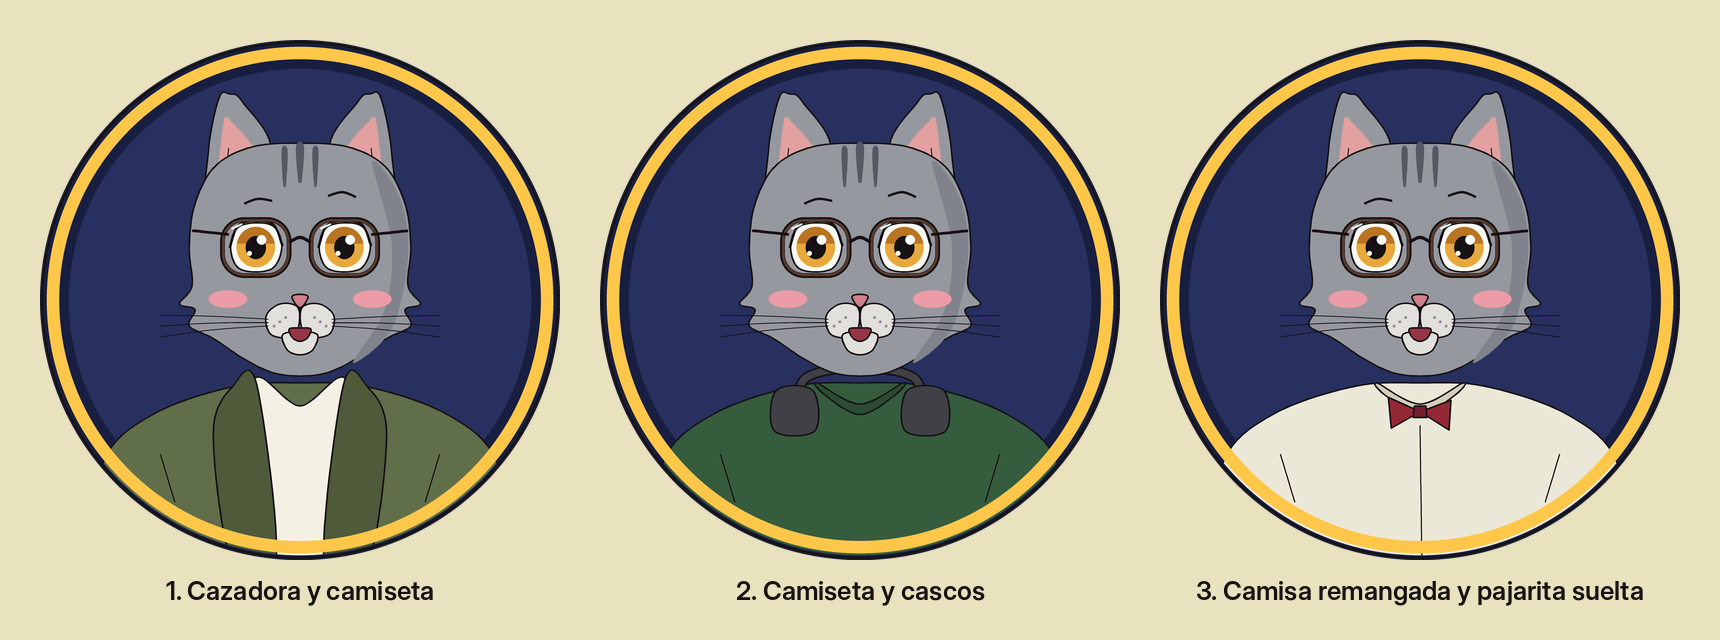
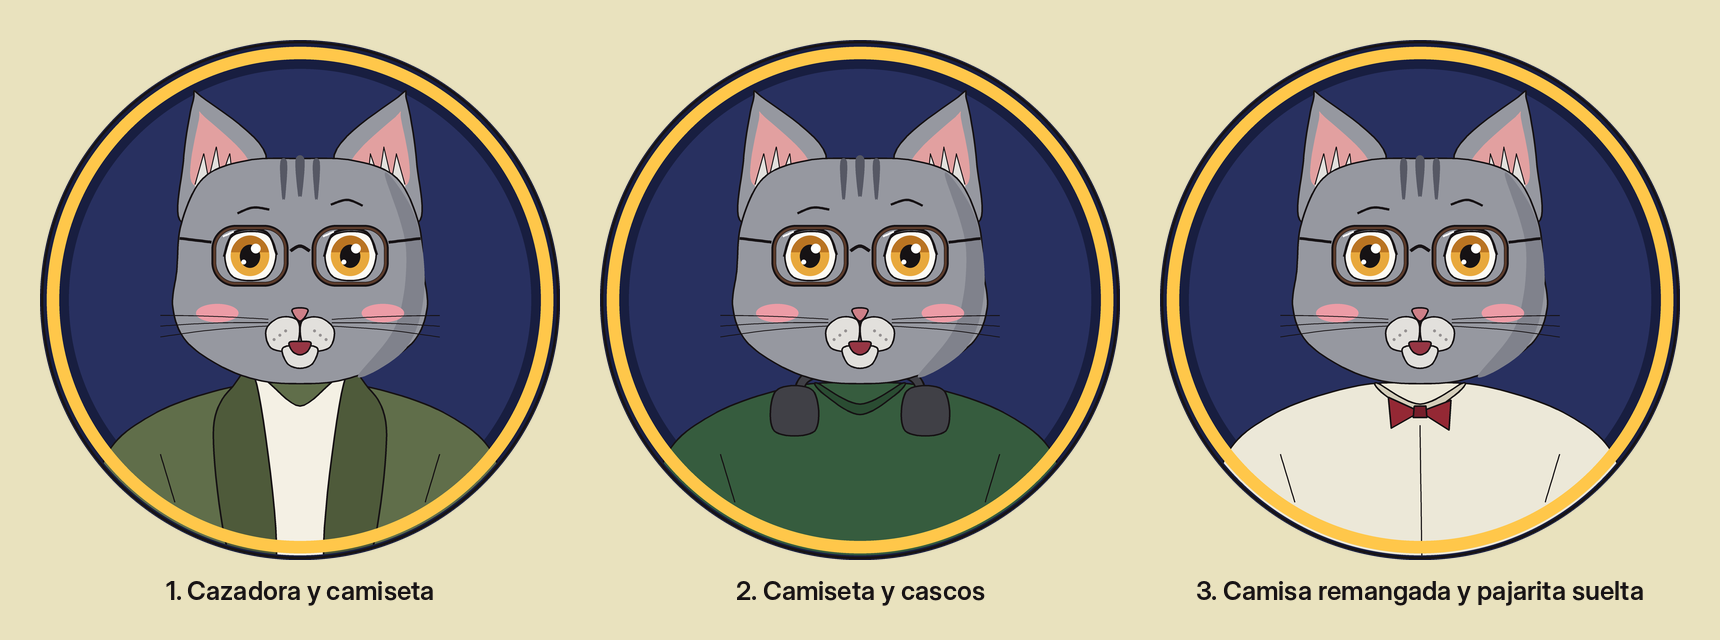
Mascot v5: wide head, ears rising from the sides, broad U jaw (author's reference)
Claude-Session: https://claude.ai/code/session_01NybaBE5S7NaSa8o2zm46KB

Changed region(s): [[0.7395, 0.125, 0.9244, 0.625], [0.4006, 0.125, 0.5855, 0.625], [0.0924, 0.125, 0.2465, 0.625]]

diff --git a/factory/mascota_v5.py b/factory/mascota_v5.py
@@ -81,44 +81,46 @@ def body(d, o):
 
 def head(d, wink=False):
     X = lambda x, sx: 540 + sx * (x - 540)
-    # orejas grandes de base ancha en las esquinas superiores, con mechones dentro
+    # orejas grandes en las esquinas: el borde exterior sube casi recto desde el lado de la cabeza
     for sx in (-1, 1):
-        shape(d, [(X(352, sx), 360), (X(350, sx), 230), (X(372, sx), 120), (X(394, sx), 112), (X(420, sx), 128), (X(478, sx), 236)], FUR)
-        shape(d, [(X(374, sx), 330), (X(380, sx), 180), (X(396, sx), 168), (X(452, sx), 252)], EAR_IN, line=False)
-        for k in range(3):
-            stroke(d, [(X(384 + k * 14, sx), 300), (X(392 + k * 14, sx), 224 + k * 8)], 2.2)
-    # cabeza: redonda arriba, ancha en los mofletes (mechones abajo a los lados), barbilla pequeña bajo el hocico
-    pts = spline([(540, 214), (640, 222), (716, 262), (758, 340), (770, 430), (764, 510), (790, 548), (758, 560),
-                  (770, 594), (720, 620), (660, 660), (600, 690), (540, 698), (480, 690), (420, 660), (360, 620),
-                  (310, 594), (322, 560), (290, 548), (316, 510), (310, 430), (322, 340), (364, 262), (440, 222)], n=10)
+        shape(d, [(X(300, sx), 380), (X(298, sx), 250), (X(318, sx), 126), (X(336, sx), 118), (X(470, sx), 250)], FUR)
+        shape(d, [(X(318, sx), 300), (X(330, sx), 166), (X(342, sx), 160), (X(436, sx), 262)], EAR_IN, line=False)
+        tuft = [(X(322, sx), 300), (X(340, sx), 236), (X(350, sx), 290), (X(366, sx), 222), (X(376, sx), 288), (X(394, sx), 236), (X(400, sx), 290)]
+        d.polygon([P(*p) for p in tuft] + [P(X(400, sx), 310), P(X(322, sx), 310)], fill=FUR_L)
+        stroke(d, tuft, 2, smooth=False)
+    # cabeza ancha (más ancha que alta): parte de arriba casi plana entre las orejas, lados casi rectos que se abren
+    # un poco en los mofletes, mandíbula en U ancha
+    pts = spline([(540, 246), (650, 250), (740, 286), (786, 380), (796, 480), (804, 556), (776, 626), (700, 680),
+                  (620, 708), (540, 714), (460, 708), (380, 680), (304, 626), (276, 556), (284, 480), (294, 380),
+                  (340, 286), (430, 250)], n=10)
     d.polygon([P(*p) for p in pts], fill=FUR)
     d.line([P(*p) for p in pts] + [P(*pts[0])], fill=INK, width=int(LW * S), joint="curve")
-    d.polygon([P(*p) for p in spline([(690, 252), (748, 330), (764, 450), (730, 600), (650, 670), (716, 560), (730, 420)])], fill=FUR_S)
+    d.polygon([P(*p) for p in spline([(716, 276), (780, 370), (798, 520), (760, 640), (660, 700), (740, 590), (760, 430)])], fill=FUR_S)
     # rayas de la frente
-    for x0, top, w in ((508, 228, 12), (540, 220, 16), (572, 228, 12)):
+    for x0, top, w in ((506, 254, 14), (540, 248, 18), (574, 254, 14)):
         d.polygon([P(*p) for p in spline([(x0 - w / 2, top), (x0 + w / 2, top), (x0 + w / 4, top + 70), (x0, top + 76), (x0 - w / 4, top + 70)])], fill=STRIPE)
     # mofletes rosados
     for sx in (-1, 1):
-        d.ellipse([P(540 + sx * 150 - 40, 520), P(540 + sx * 150 + 40, 556)], fill=(236, 156, 166))
+        d.ellipse([P(540 + sx * 172 - 44, 548), P(540 + sx * 172 + 44, 586)], fill=(236, 156, 166))
     # hocico: dos almohadillas redondas de bigotes (como la referencia) + barbilla
     for sx in (-1, 1):
-        shape(d, [(540 + sx * 4, 556), (540 + sx * 40, 548), (540 + sx * 70, 572), (540 + sx * 62, 610), (540 + sx * 24, 618), (540 + sx * 4, 600)], FUR_L)
-    shape(d, [(504, 612), (540, 606), (576, 612), (566, 644), (540, 654), (514, 644)], FUR_L)
+        shape(d, [(540 + sx * 4, 584), (540 + sx * 40, 576), (540 + sx * 70, 600), (540 + sx * 62, 638), (540 + sx * 24, 646), (540 + sx * 4, 628)], FUR_L)
+    shape(d, [(504, 640), (540, 634), (576, 640), (566, 672), (540, 682), (514, 672)], FUR_L)
     for sx in (-1, 1):
         for k in range(3):
-            cx, cy = 540 + sx * (30 + k * 12), 576 + k * 9
+            cx, cy = 540 + sx * (30 + k * 12), 604 + k * 9
             d.ellipse([P(cx - 3, cy - 3), P(cx + 3, cy + 3)], fill=(150, 146, 146))
     # nariz de corazón y sonrisa
-    shape(d, [(524, 532), (540, 528), (556, 532), (551, 546), (540, 556), (529, 546)], NOSE)
-    stroke(d, [(540, 556), (540, 572)])
-    shape(d, [(518, 600), (540, 598), (562, 600), (556, 618), (540, 626), (524, 618)], (150, 54, 68))
+    shape(d, [(524, 560), (540, 556), (556, 560), (551, 574), (540, 584), (529, 574)], NOSE)
+    stroke(d, [(540, 584), (540, 600)])
+    shape(d, [(518, 628), (540, 626), (562, 628), (556, 646), (540, 654), (524, 646)], (150, 54, 68))
     # bigotes
     for sx in (-1, 1):
         for dy in (0, 14, 28):
             stroke(d, [(540 + sx * 66, 580 + dy * 0.5), (540 + sx * 180, 574 + dy), (540 + sx * 290, 572 + dy * 1.6)], 2)
     # ojos grandes y brillantes
     for sx in (-1, 1):
-        cx, cy = 540 + sx * 92, 430
+        cx, cy = 540 + sx * 104, 448
         if wink and sx == 1:
             stroke(d, [(cx - 44, cy + 6), (cx, cy - 16), (cx + 44, cy + 6)], 5); continue
         shape(d, [(cx - 52, cy), (cx - 32, cy - 44), (cx + 32, cy - 46), (cx + 54, cy - 2), (cx + 32, cy + 46), (cx - 32, cy + 46)], (252, 250, 244))
@@ -130,15 +132,15 @@ def head(d, wink=False):
         stroke(d, [(cx - 54, cy + 2), (cx - 32, cy - 48), (cx + 32, cy - 50), (cx + 56, cy - 2)], 5)
     # gafas: montura gruesa redondeada (como la referencia) pero en marrón oscuro
     for sx in (-1, 1):
-        cx = 540 + sx * 92
-        d.rounded_rectangle([P(cx - 74, 368), P(cx + 74, 494)], radius=50 * S, outline=INK, width=int(10 * S))
-        d.rounded_rectangle([P(cx - 70, 372), P(cx + 70, 490)], radius=46 * S, outline=(92, 60, 44), width=int(5 * S))
-        stroke(d, [(cx - 50, 392), (cx - 28, 382)], 4, (255, 255, 255))
-    stroke(d, [(518, 420), (540, 410), (562, 420)], 7)
-    stroke(d, [(392, 404), (316, 396)], 6); stroke(d, [(688, 404), (764, 396)], 6)
+        cx = 540 + sx * 104
+        d.rounded_rectangle([P(cx - 80, 384), P(cx + 80, 512)], radius=50 * S, outline=INK, width=int(10 * S))
+        d.rounded_rectangle([P(cx - 76, 388), P(cx + 76, 508)], radius=46 * S, outline=(92, 60, 44), width=int(5 * S))
+        stroke(d, [(cx - 56, 408), (cx - 34, 398)], 4, (255, 255, 255))
+    stroke(d, [(520, 438), (540, 428), (560, 438)], 7)
+    stroke(d, [(356, 420), (290, 412)], 6); stroke(d, [(724, 420), (790, 412)], 6)
     # cejas alegres
-    stroke(d, [(424, 340), (452, 330), (482, 334)], 5)
-    stroke(d, [(598, 324), (628, 316), (656, 326)], 5)
+    stroke(d, [(410, 360), (442, 348), (476, 352)], 5)
+    stroke(d, [(604, 342), (638, 332), (670, 344)], 5)
 
 def avatar(outfit="bomber", size=1080, wink=False):
     big = Image.new("RGBA", (1080 * S, 1080 * S), (0, 0, 0, 0)); d = ImageDraw.Draw(big)
